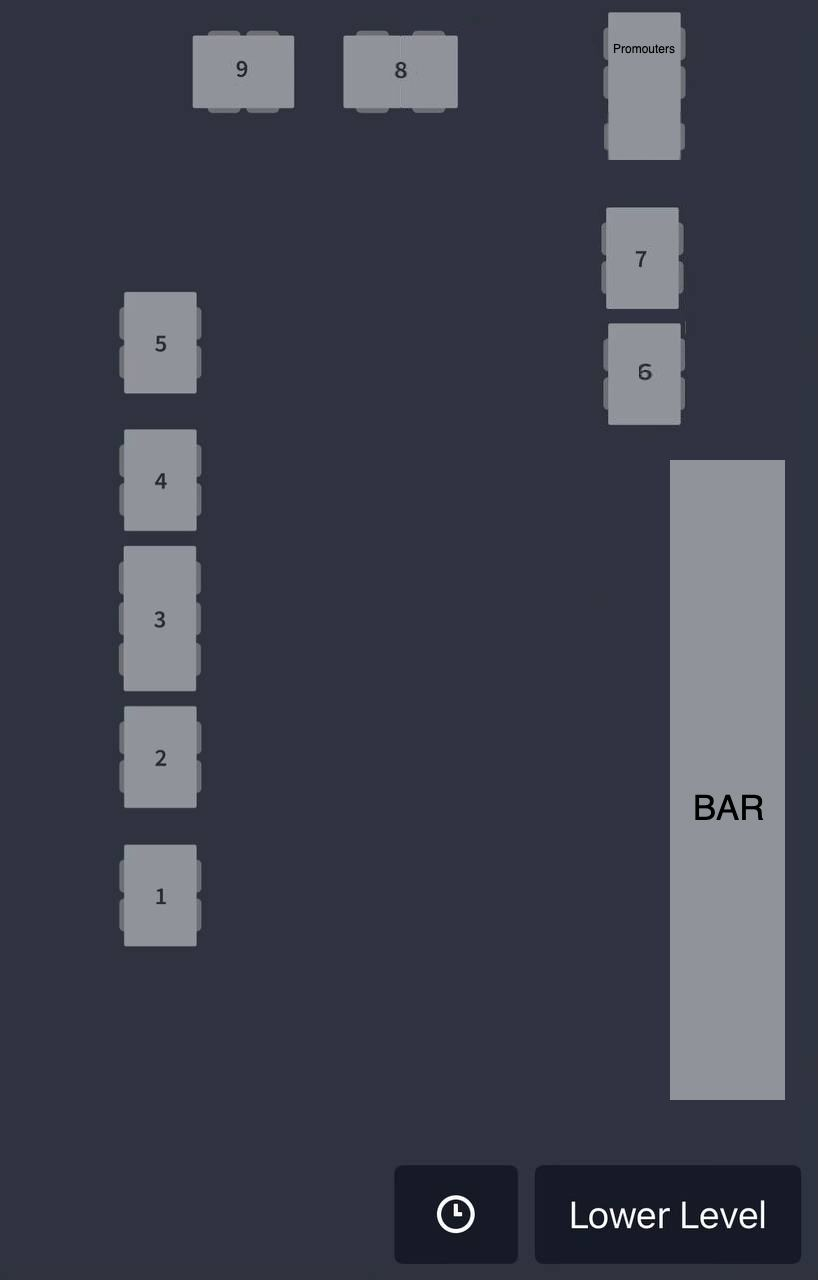
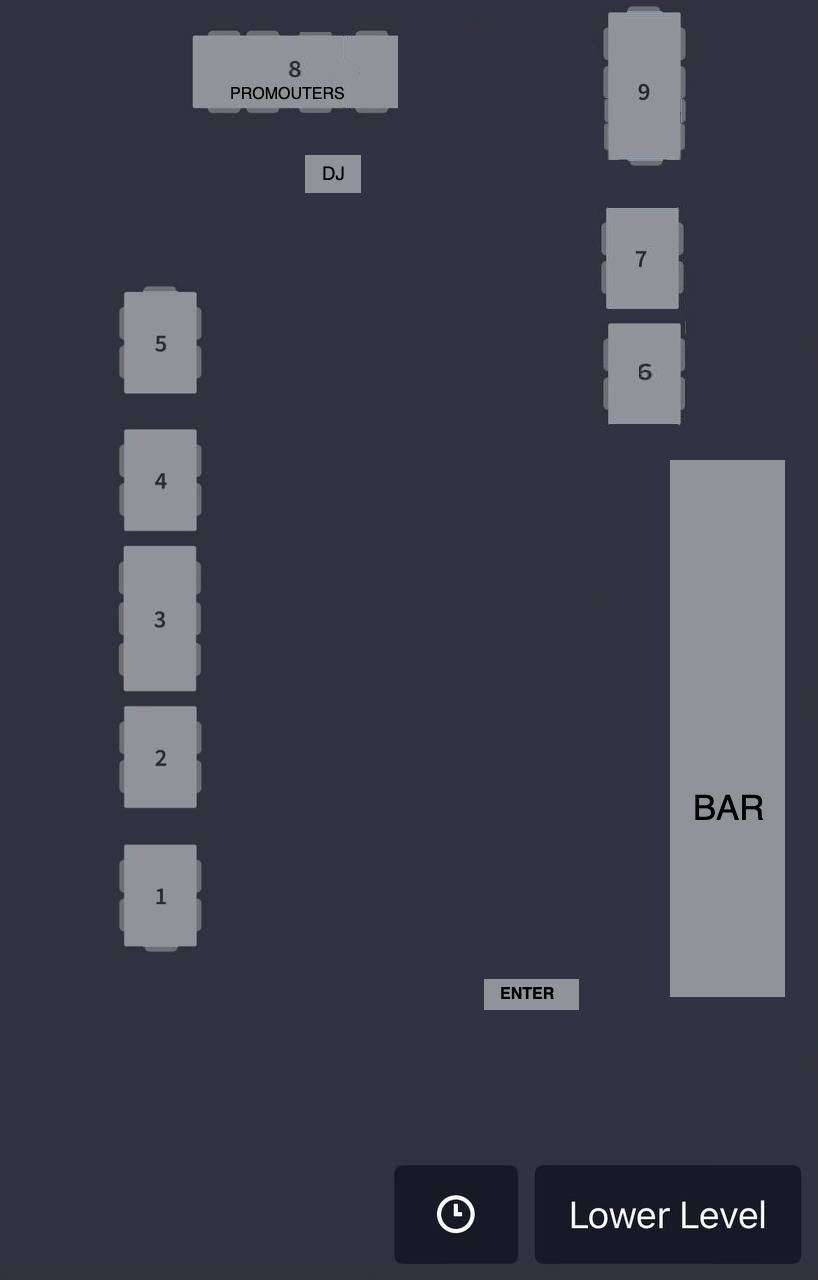
Returned tables

diff --git a/landing/templates/booking.html b/landing/templates/booking.html
@@ -4,6 +4,8 @@
 
 {% block content %}
     <div class="schemes-container">
+    <img class="lower-level" src="{% static '/img/lower_level.jpg' %}">
+    <img class="upper-level" src="{% static '/img/upper_level.jpg' %}">
     </div>
 
 
